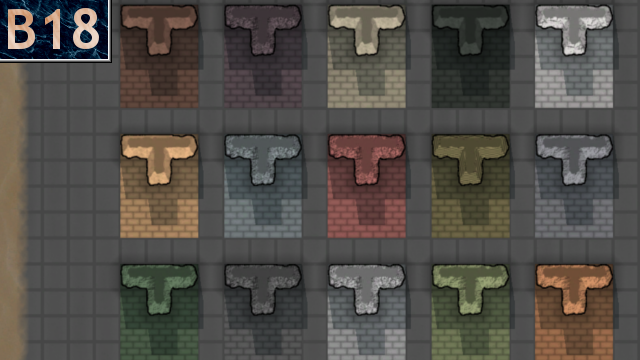
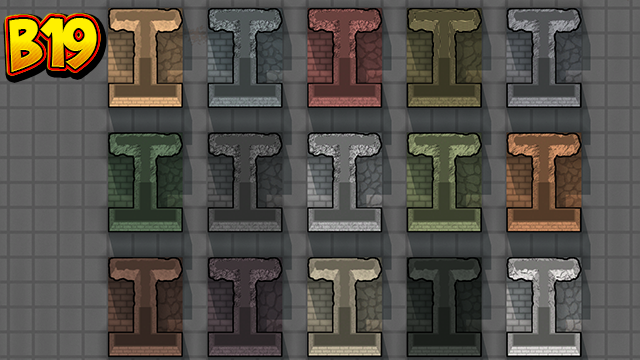
Finalised Terrain Def & details Updated to B19

diff --git a/README.md b/README.md
@@ -2,4 +2,6 @@
 
 Adds 10 new types of stone and updates the stone graphics for more realism
 
-![Preview](https://raw.githubusercontent.com/cuproPanda/Cupros-Stones/master/About/Preview.png)
+![Preview](https://raw.githubusercontent.com/Benjamin-S/Cupros-Stones/master/About/Preview.png)
+
+Forked from the awesome https://github.com/cuproPanda/ and updated for Rimworld B19.
